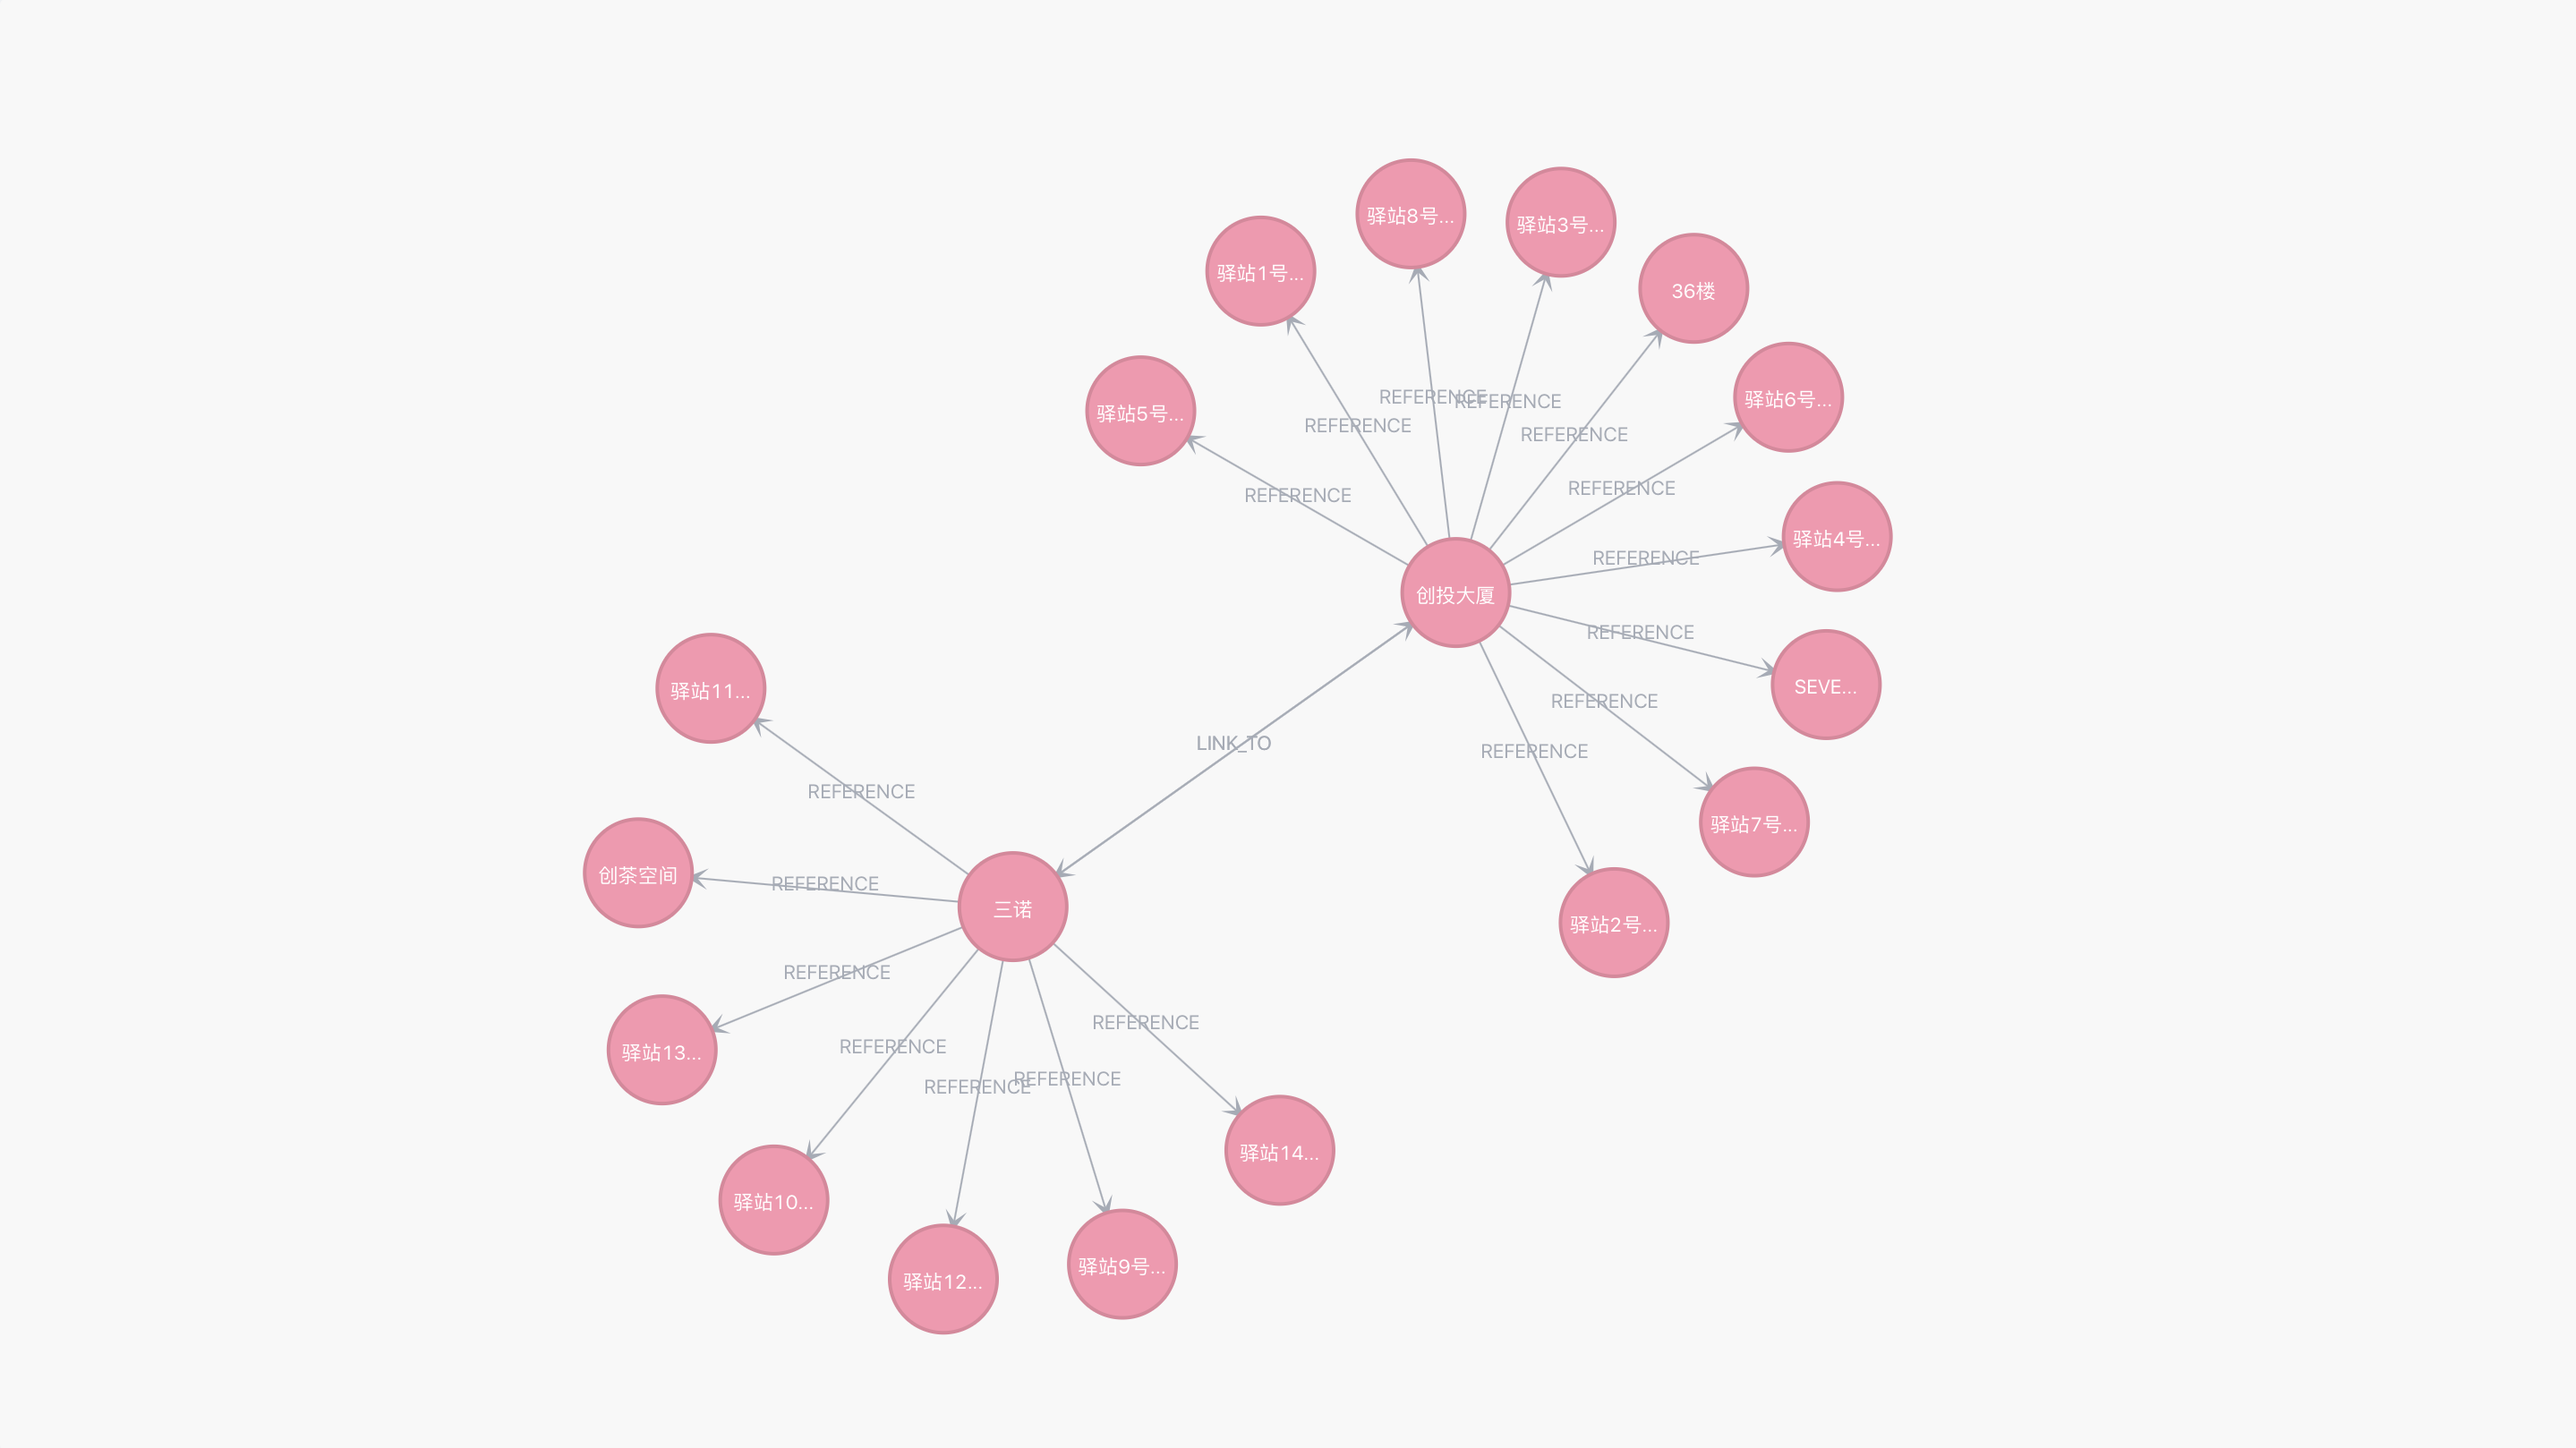
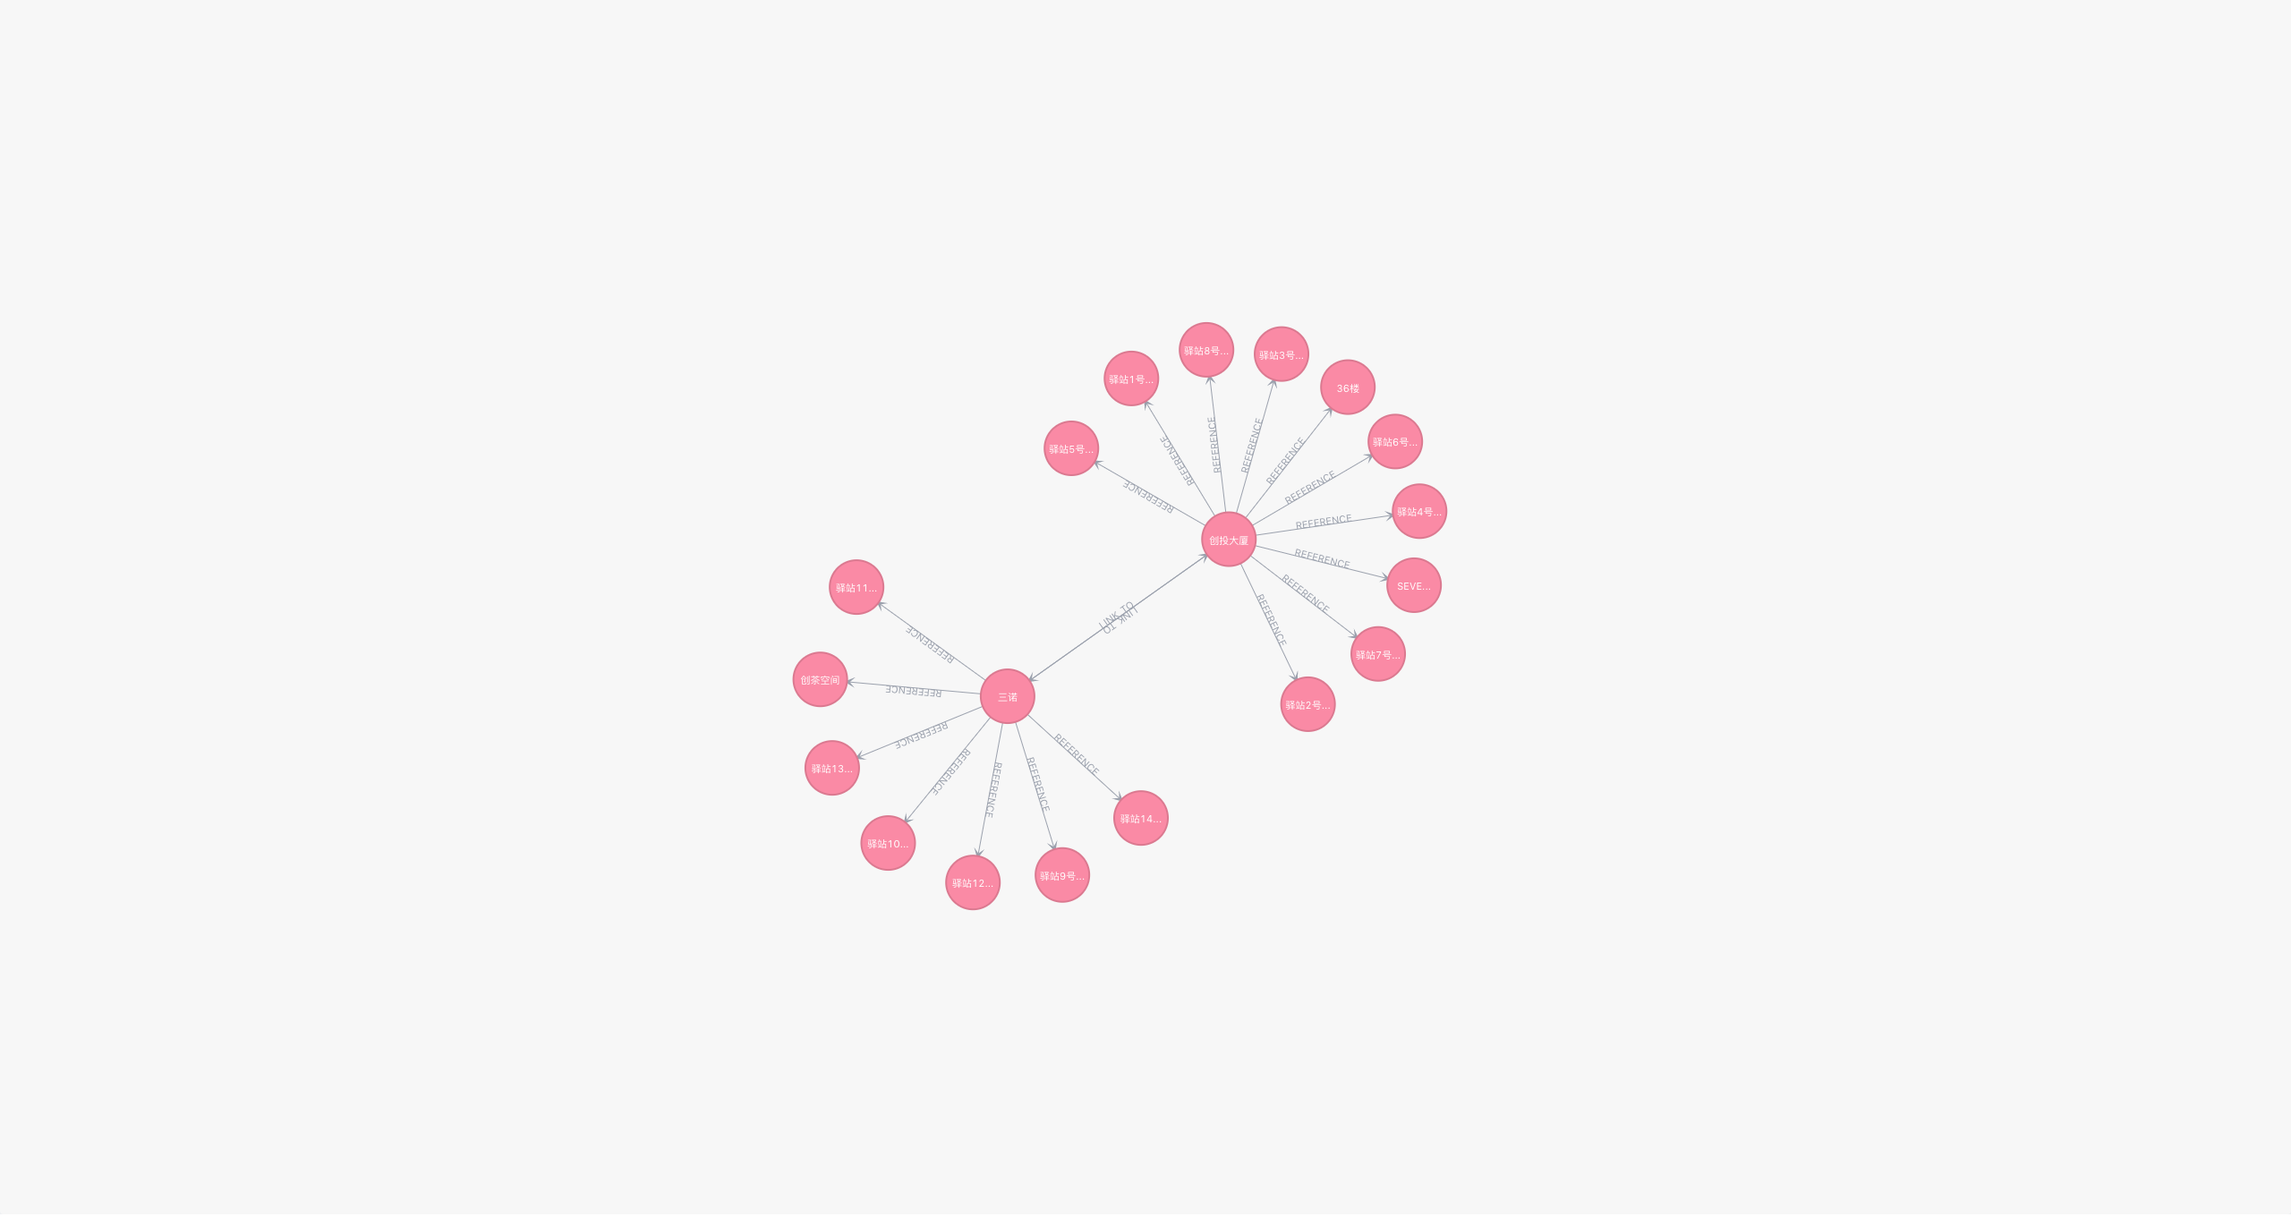
Update VisualEditor component and screen shot

diff --git a/src/components/VisualEditor.tsx b/src/components/VisualEditor.tsx
@@ -1,12 +1,14 @@
 import React, { Component } from 'react';
-import { Modal } from 'antd';
+import { Modal, Form, Input } from 'antd';
 import * as d3 from 'd3';
 import './VisualEditor.css';
 
 interface InternalState {
     showAddModal: boolean;
     showNodeModal: boolean;
+    showLinkModal: boolean;
     selectedNode: any;
+    selectedLink: any;
     nodes: any[];
     links: any[];
 }
@@ -19,7 +21,9 @@ class VisualEditor extends Component<any, InternalState> {
         this.state = {
             showAddModal: false,
             showNodeModal: false,
+            showLinkModal: false,
             selectedNode: {},
+            selectedLink: {},
             nodes: [
                 { id: 0, name: '创投大厦' },
                 { id: 1, name: '三诺' },
@@ -67,16 +71,16 @@ class VisualEditor extends Component<any, InternalState> {
 
     componentDidMount() {
         const { nodes, links } = this.state;
-        this.initSimulation(nodes, links);
-    }
-
-    initSimulation(nodes: any, links: any) {
         const el = document.getElementById('Neo4jContainer');
 
         if (!el) {
             return;
         }
     
+        this.initSimulation(el, nodes, links);
+    }
+
+    initSimulation(el: any, nodes: any, links: any) {
         const width = el.clientWidth;
         const height = el.clientHeight;
 
@@ -86,44 +90,35 @@ class VisualEditor extends Component<any, InternalState> {
             .force("collide", d3.forceCollide().strength(-60))
             .force("center", d3.forceCenter(width / 2, height / 2));
 
-        const svg = d3.select('#Neo4jContainer').append("svg")
+        const svg = d3.select('#Neo4jContainer')
+                    .append("svg")
                     .attr("width", '100%')
                     .attr("height", '100%');
 
         this.onZoom(svg);
-
         this.addArrowMarker(svg);
 
         const link = this.initLinks(links, svg);
         const node = this.initNodes(nodes, svg);
-        const nodeText = this.initNodeText(nodes);
-        const linkText = this.initLinkText(links);
-
-        node.append("title").text((d: any) => d.name);
 
         this.simulation.on("tick", () => {
-            link
-                .attr("x1", (d: any) => d.source.x)
-                .attr("y1", (d: any) => d.source.y)
-                .attr("x2", (d: any) => d.target.x)
-                .attr("y2", (d: any) => d.target.y);
+            link.selectAll('.outline')
+                .attr('d', (d: any) => {
+                    return 'M' + d.source.x + ', ' + d.source.y + 'A0,0 0 0,1 ' + d.target.x + ' '+ d.target.y;
+                });
 
-            linkText
-                .attr('x', (d: any) => (d.source.x + d.target.x) / 2)
-                .attr('y', (d: any) => (d.source.y + d.target.y) / 2);
+            link.selectAll('.overlay')
+                .attr('d', (d: any) => {
+                    return 'M' + d.source.x + ', ' + d.source.y + 'A0,0 0 0,1 ' + d.target.x + ' '+ d.target.y;
+                });
         
-            node
-                .attr("cx", (d: any) => d.x)
-                .attr("cy", (d: any) => d.y);
-
-            nodeText
-                .attr("x", (d: any) => d.x)
-                .attr("y", (d: any) => d.y);
+            node.attr('transform', (d: any) => `translate(${d.x}, ${d.y})`);
         });
 
         this.initNodeEvent();
+        this.initLinkEvent();
 
-        return svg.node();
+        this.simulation.alpha(1).restart();
     }
 
     onDragStarted(d: any) {
@@ -143,8 +138,6 @@ class VisualEditor extends Component<any, InternalState> {
         if (!d3.event.active) {
             this.simulation.alphaTarget(0);
         }
-        // d.fx = null;
-        // d.fy = null;
     }
 
     onZoom(svg: any) {
@@ -156,26 +149,77 @@ class VisualEditor extends Component<any, InternalState> {
     }
 
     initLinks(links: any, svg: any) {
-        return svg.append('g')
+        const link = svg.append('g')
             .attr('class', 'layer links')
-            .selectAll("line")
+            .selectAll('path.outline')
             .data(links)
-            .join('g')
-            .attr('class', 'link')
-            .append("line")
-            .attr("stroke", "#A5ABB6")
-            .attr("stroke-width", 1)
+            .enter()
+            .append('g')
+            .attr('class', 'link');
+
+        link.append('path')
+            .attr('id', (d: any, i: number) => `linkPath${i}`)
+            .attr('class', 'outline')
+            .attr('stroke', '#A5ABB6')
+            .attr('stroke-width', 1)
             .attr('marker-end', 'url(#ArrowMarker)');
+
+        link.append('text')
+            .attr("class", 'link-text')  
+            .attr('fill', '#A5ABB6')
+            .append('textPath')
+            .attr('pointer-events', 'none')
+            .attr('href', (d: any, i: number) => `#linkPath${i}`)
+            .attr('startOffset', '50%')
+            .attr('font-size', '11px')
+            .attr('text-anchor', 'middle')   
+            .text((d: any) => {
+                if(d.relative !== ''){
+                    return d.relative;
+                }
+            });
+        
+        link.append('path')
+            .attr('class', 'overlay')
+            .attr('stroke', '#68bdf6')
+            .attr('stroke-opacity', '0.5')
+            .attr('stroke-width', '12')
+            .style('display', 'none');
+
+        return link;
+    }
+
+    initLinkEvent() {
+        const self = this;
+        return d3.selectAll('.link .outline')
+            .on('mouseenter', function(d: any) {
+                const node: any = d3.select(this);
+                node.select('.overlay')
+                    .style('display', 'block');
+            })
+            .on('mouseleave', function(d: any) {
+                const node: any = d3.select(this);
+                node.select('.overlay')
+                    .style('display', 'none');
+            })
+            .on('click', function(d: any) {
+                self.setState({ selectedLink: d });
+            })
+            .on('dblclick', function(d: any) {
+                self.setState({ showLinkModal: true });
+            });
     }
 
     initNodes(nodes: any, svg: any) {
-        return svg.append("g")
+        const node = svg.append("g")
             .attr('class', 'layer nodes')
-            .selectAll("circle")
+            .selectAll('.node')
             .data(nodes)
-            .join('g')
-            .attr('class', 'node')
-            .append('circle')
+            .enter()
+            .append('g')
+            .attr('class', 'node');
+
+        node.append('circle')
             .attr("r", 30)
             .attr('fill', '#FB95AF')
             .attr('stroke', '#E0849B')
@@ -185,6 +229,24 @@ class VisualEditor extends Component<any, InternalState> {
                 .on("drag", (d: any) => this.onDragged(d))
                 .on("end", (d: any) => this.onDragEnded(d))
             );
+
+        node.append('text')
+            .attr('dy', '5')
+            .attr('fill', '#ffffff')
+            .attr('pointer-events', 'none')
+            .attr('font-size', '11px')
+            .attr('text-anchor', 'middle')
+            .text((d: any) => {
+                if(d.name.length > 4){
+                    const name = d.name.slice(0, 4) + '...';
+                    return name;
+                }
+                return d.name;
+            });
+
+        node.append("title").text((d: any) => d.name);
+
+        return node;
     }
 
     initNodeEvent() {
@@ -198,7 +260,8 @@ class VisualEditor extends Component<any, InternalState> {
                 }
 
                 node.select('circle')
-                    .attr('stroke-width', '8')
+                    .attr('stroke', '#FB95AF')
+                    .attr('stroke-width', '12')
                     .attr('stroke-opacity', '0.5');
             })
             .on('mouseleave', function(d) {
@@ -209,18 +272,21 @@ class VisualEditor extends Component<any, InternalState> {
                 }
 
                 node.select('circle')
+                    .attr('stroke', '#E0849B')
                     .attr('stroke-width', '2')
                     .attr('stroke-opacity', '1');
             })
             .on('click', function(d) {
                 const node: any = d3.select(this);
-                const circle = d3.select(this).select('circle');
+                const circle = node.select('circle');
 
                 if (node._groups[0][0].classList.contains('selected')) {
-                    circle.attr('stroke-width', '2');
+                    circle.attr('stroke-width', '2')
+                        .attr('stroke', '#E0849B');
                     node.attr('class', 'node');
                 } else {
-                    circle.attr('stroke-width', '8');
+                    circle.attr('stroke-width', '12')
+                        .attr('stroke', '#FB95AF');
                     node.attr('class', 'node selected');
                 }
 
@@ -228,24 +294,6 @@ class VisualEditor extends Component<any, InternalState> {
             })
             .on('dblclick', function(d) {
                 self.setState({ showNodeModal: true });
-            });
-    }
-
-    initNodeText(nodes: any) {
-        return d3.selectAll('.node')
-            .data(nodes)
-            .append('text')
-            .attr('dy', '5')
-            .attr('fill', '#ffffff')
-            .attr('pointer-events', 'none')
-            .attr('font-size', '11px')
-            .attr('text-anchor', 'middle')
-            .text((d: any) => {
-                if(d.name.length > 4){
-					const name = d.name.slice(0, 4) + '...';
-					return name;
-                }
-                return d.name;
             });
     }
 
@@ -282,16 +330,35 @@ class VisualEditor extends Component<any, InternalState> {
         this.setState({ showNodeModal: true });
     }
 
-    handleOk() {
+    handleNodeOk() {
         console.log('Ok');
     }
 
-    handleCancel() {
+    handleNodeCancel() {
+        this.setState({ showNodeModal: false });
+    }
+
+    handleLinkOk() {
+        console.log('Ok');
+    }
+
+    handleLinkChange(e: any) {
+        const value = e.target.value;
+        const { selectedLink } = this.state;
+        this.setState({
+            selectedLink: {
+                ...selectedLink,
+                relative: value,
+            },
+        });
+    }
+
+    handleLinkCancel() {
         this.setState({ showNodeModal: false });
     }
     
     render() {
-        const { showNodeModal, selectedNode } = this.state;
+        const { showNodeModal, showLinkModal, selectedNode, selectedLink } = this.state;
 
         return (
             <div className="visual-editor">
@@ -304,10 +371,23 @@ class VisualEditor extends Component<any, InternalState> {
                     centered
                     title="配送点信息"
                     visible={showNodeModal}
-                    onOk={() => this.handleOk()}
-                    onCancel={() => this.handleCancel()}
+                    onOk={() => this.handleNodeOk()}
+                    onCancel={() => this.handleNodeCancel()}
                 >
                     <p>{selectedNode.name}</p>
+                </Modal>
+                <Modal
+                    centered
+                    title="编辑配送点关系"
+                    visible={showLinkModal}
+                    onOk={() => this.handleLinkOk()}
+                    onCancel={() => this.handleLinkCancel()}
+                >
+                    <Form>
+                        <Form.Item label="配送点">
+                            <Input required value={selectedLink.relative} onChange={(e: any) => this.handleLinkChange(e)} />
+                        </Form.Item>
+                    </Form>
                 </Modal>
             </div>
         );
